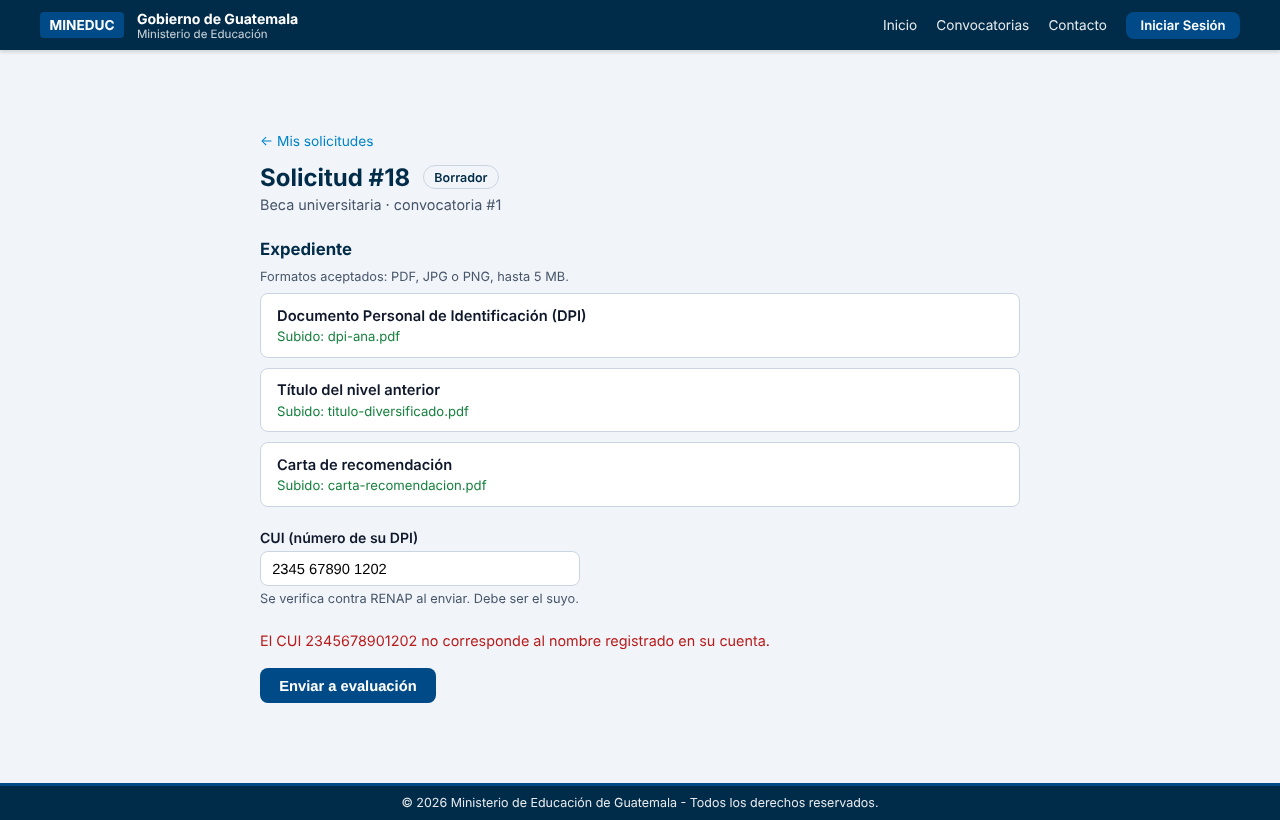
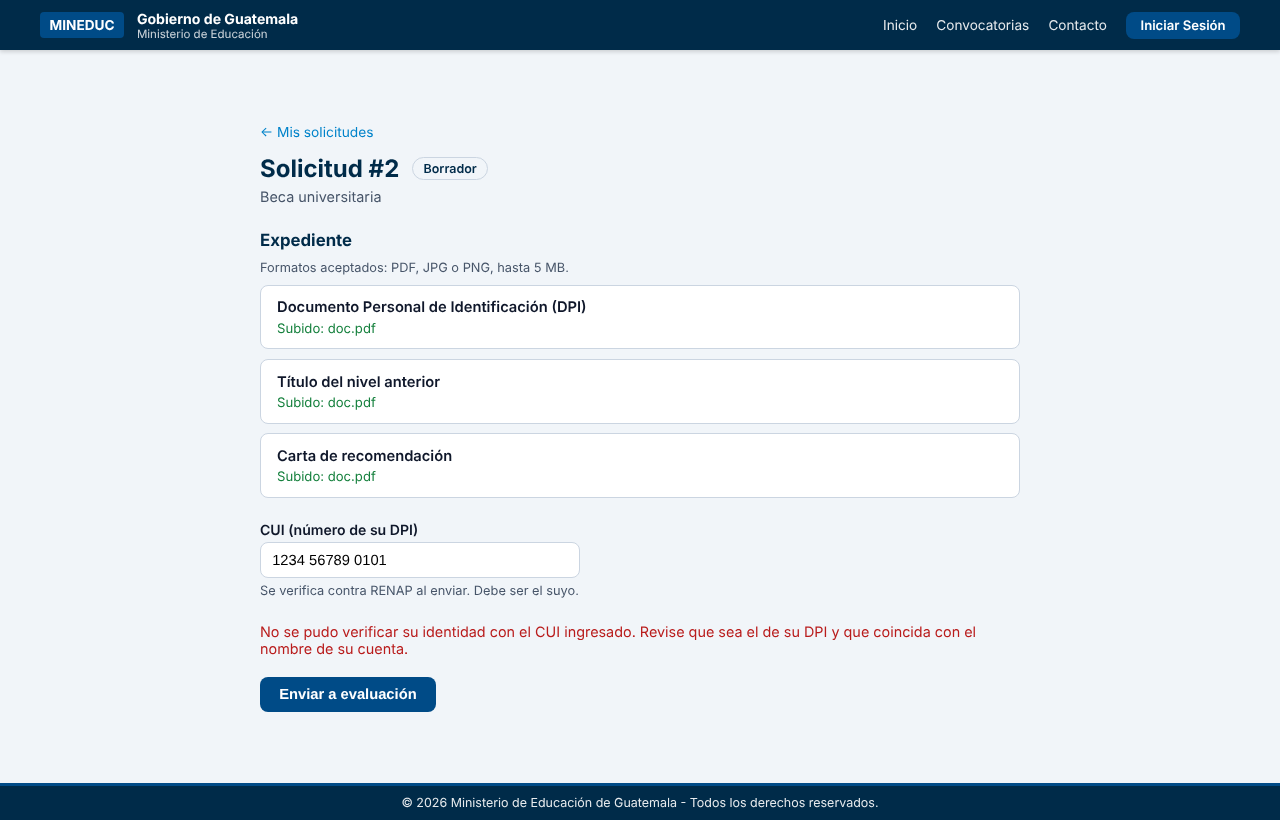
docs: manual de usuario, seccion del evaluador y mensaje unico de RENAP

Changed region(s): [[0.1875, 0.1524, 0.7812, 0.6098], [0.1875, 0.7622, 0.75, 0.8841], [0.1875, 0.6402, 0.4688, 0.7317]]

diff --git a/docs/manual-usuario.md b/docs/manual-usuario.md
@@ -5,9 +5,9 @@
 
 | | |
 |---|---|
-| **Dirigido a** | Estudiantes que solicitan una beca |
-| **Versión del documento** | 1.0 |
-| **Fecha** | 27/10/2026 |
+| **Dirigido a** | Estudiantes que solicitan una beca (secciones 1 a 11) y evaluadores del Ministerio (sección 12) |
+| **Versión del documento** | 1.1 |
+| **Fecha** | 29/10/2026 |
 
 Este manual explica cómo usar la plataforma desde el navegador. Para instalarla
 o configurarla, consulte el **Manual Técnico** (`docs/manual-tecnico.md`).
@@ -30,7 +30,8 @@ contra su base de datos, no maquetas.
 9. [Mis solicitudes](#9-mis-solicitudes)
 10. [Recuperar la contraseña](#10-recuperar-la-contraseña)
 11. [Mensajes frecuentes y qué hacer](#11-mensajes-frecuentes-y-qué-hacer)
-12. [Alcance de esta versión](#12-alcance-de-esta-versión)
+12. [Para evaluadores: revisar y dictaminar](#12-para-evaluadores-revisar-y-dictaminar)
+13. [Alcance de esta versión](#13-alcance-de-esta-versión)
 
 ---
 
@@ -193,7 +194,12 @@ esté vacío.
    formato inválido o pertenece a otra persona, no se envía y la solicitud
    sigue en Borrador.
 
-   ![CUI que no corresponde al nombre de la cuenta](manual-usuario/img/09-cui-no-corresponde.png)
+   Si el CUI no existe o es de otra persona, el mensaje es el mismo en los dos
+   casos: *No se pudo verificar su identidad con el CUI ingresado.* Es a
+   propósito: si la plataforma dijera cuál de los dos pasó, cualquiera podría
+   averiguar qué CUI existen y a nombre de quién.
+
+   ![CUI que no se pudo verificar](manual-usuario/img/09-cui-no-corresponde.png)
 
 Si todo está bien, la solicitud pasa a **Enviada** y aparece la confirmación
 **Su solicitud fue enviada.**
@@ -270,8 +276,7 @@ administrador de la plataforma.
 | *El expediente está incompleto. Falta: …* | Le falta subir algún documento | Suba los que aparecen en rojo y vuelva a enviar |
 | *El archivo supera el límite de 5 MB.* | El archivo es muy grande | Reduzca su tamaño, por ejemplo escaneando a menor resolución |
 | *… el CUI debe tener exactamente 13 dígitos* | El CUI está incompleto o tiene caracteres de más | Escriba los 13 dígitos de su DPI |
-| *… CIUDADANO NO ENCONTRADO EN EL PADRON* | RENAP no tiene ese CUI | Revise que lo escribió bien |
-| *El CUI … no corresponde al nombre registrado en su cuenta.* | El CUI es de otra persona, o el nombre de su cuenta no coincide con el de su DPI | Revise el CUI. Si es el suyo, el nombre de su cuenta no coincide con el de RENAP |
+| *No se pudo verificar su identidad con el CUI ingresado. …* | El CUI no existe en RENAP, es de otra persona, o el nombre de su cuenta no coincide con el de su DPI. La plataforma no dice cuál, a propósito (sección 7) | Revise que escribió bien su CUI. Si es el suyo, el nombre de su cuenta no coincide con el de RENAP |
 | *El servicio de RENAP no está disponible: …* | El servicio de RENAP no respondió | Su solicitud no cambió. Intente de nuevo más tarde |
 | *Token inválido o expirado* | Su sesión venció (dura una hora) | Cierre sesión y vuelva a entrar |
 | *No tiene acceso a esta solicitud.* | Intentó abrir una solicitud que no es suya | Entre a **Mis solicitudes** y abra las suyas |
@@ -279,18 +284,117 @@ administrador de la plataforma.
 
 ---
 
-## 12. Alcance de esta versión
+## 12. Para evaluadores: revisar y dictaminar
+
+Esta sección es para el personal del Ministerio con rol de **evaluador**. Un
+evaluador solo ve y resuelve las solicitudes que el administrador le asignó.
+
+### 12.1 Su cuenta de evaluador
+
+El evaluador se registra igual que cualquier usuario (sección 2), con su correo
+institucional. El rol de evaluador **no se elige al registrarse**: lo asigna el
+administrador técnico del sistema. Hasta que se lo asignen, su cuenta funciona como la
+de un estudiante.
+
+Al iniciar sesión (sección 3), la pantalla de inicio muestra su rol y el enlace
+**Bandeja del evaluador**.
+
+![Inicio de sesión de un evaluador, con el enlace a su bandeja](manual-usuario/img/14-inicio-evaluador.png)
+
+### 12.2 La bandeja del evaluador
+
+Elija **Bandeja del evaluador**. Ahí aparecen, de la más antigua a la más
+reciente, todas las solicitudes que le asignaron, en cualquier estado.
+
+Si todavía no le asignaron ninguna, la bandeja lo indica:
+
+![Bandeja sin solicitudes asignadas](manual-usuario/img/15-bandeja-vacia.png)
+
+Cada solicitud aparece como una tarjeta con su número, su estado, la modalidad
+de beca y el número de identificación del estudiante. Los botones de cada
+tarjeta dependen del estado de la solicitud: la plataforma solo muestra las
+acciones que se pueden hacer en ese momento.
+
+| Estado de la solicitud | Botones que ve |
+|---|---|
+| **Enviada** | **Iniciar Evaluación** |
+| **En Evaluación** | **Aprobar** y **Rechazar** |
+| **Aprobada** o **Rechazada** | Ninguno: *Sin acciones pendientes* |
+
+<!-- PENDIENTE (Marco): cuando la bandeja muestre los documentos del expediente
+     (tarea 4 de Brayan), agregar aquí "12.3 Revisar el expediente", con captura
+     de la lista de documentos y de la descarga, y renumerar 12.3 y 12.4. -->
+
+### 12.3 Iniciar la evaluación
+
+Una solicitud recién asignada está en **Enviada**. Presione **Iniciar
+Evaluación** para tomarla.
+
+![Solicitud asignada, en estado Enviada](manual-usuario/img/16-bandeja-enviada.png)
+
+La solicitud pasa a **En Evaluación**, aparece la confirmación *Solicitud #…
+pasada a "En Evaluación"* y la tarjeta cambia a los botones del dictamen. El
+estudiante ve el nuevo estado en **Mis solicitudes**.
+
+![Solicitud en evaluación, con los botones del dictamen](manual-usuario/img/17-en-evaluacion.png)
+
+### 12.4 Dictaminar: aprobar o rechazar
+
+Cuando termine de revisar la solicitud, presione **Aprobar** o **Rechazar**.
+
+> **El dictamen es definitivo y se aplica con un solo clic.** La plataforma no
+> pide confirmación, y una solicitud **Aprobada** o **Rechazada** ya no se
+> puede cambiar (sección 8). Asegúrese de presionar el botón correcto.
+
+La plataforma confirma *Solicitud #… dictaminada como APROBADA* (o
+*RECHAZADA*) y la tarjeta queda sin acciones pendientes.
+
+![Solicitud aprobada](manual-usuario/img/18-aprobada.png)
+
+El estudiante ve la resolución en **Mis solicitudes**:
+
+![La resolución vista por el estudiante](manual-usuario/img/19-estudiante-aprobada.png)
+
+### 12.5 Qué puede y qué no puede hacer un evaluador
+
+- Solo ve las solicitudes que **le asignaron**. Si intenta abrir otra, la
+  plataforma responde *No tiene acceso a esta solicitud.*
+- Solo puede iniciar la evaluación de una solicitud **Enviada** y solo puede
+  dictaminar una que esté **En Evaluación**. La plataforma rechaza cualquier
+  otro orden.
+- No puede modificar el expediente del estudiante ni subir documentos.
+
+### 12.6 Mensajes para evaluadores
+
+| Mensaje | Qué pasó | Qué hacer |
+|---|---|---|
+| *No hay solicitudes asignadas para evaluar.* | Todavía no le asignaron ninguna | Espere a que el administrador le asigne una |
+| *Solo evaluadores y administradores tienen bandeja de revisión.* | Su cuenta no tiene el rol de evaluador | Pida al administrador que le asigne el rol |
+| *No está asignado como evaluador de esta solicitud.* | La solicitud no es de las suyas | Revise que trabaja con su cuenta, o pida la asignación |
+| *Token inválido o expirado* | Su sesión venció (dura una hora) | Cierre sesión y vuelva a entrar |
+
+<!-- PENDIENTE (Marco): cuando exista la pantalla de asignación (tarea 5 de
+     Brayan), agregar aquí "## 13. Para administradores: asignar evaluadores",
+     con capturas, y pasar "Alcance de esta versión" a la sección 14. -->
+
+---
+
+## 13. Alcance de esta versión
 
 **Lo que cubre este manual.** El recorrido completo del **estudiante**: crear la
 cuenta, ver convocatorias, iniciar una solicitud, armar el expediente, enviarlo
-con validación de identidad y consultar su estado.
+con validación de identidad y consultar su estado. Y el del **evaluador**: ver
+las solicitudes asignadas, iniciar la evaluación y dictaminar.
 
 **Lo que todavía no tiene pantallas**, y por eso no se describe aquí:
 
-- **Evaluadores:** bandeja de solicitudes asignadas, pasar a evaluación y
-  dictaminar. La lógica existe en el sistema; falta la interfaz.
-- **Administradores:** crear, publicar y cerrar convocatorias. La lógica existe;
-  falta la interfaz.
+- **Evaluadores:** la bandeja todavía no muestra los documentos del expediente,
+  ni permite escribir observaciones en el dictamen. La tarjeta identifica al
+  estudiante por su número, no por su nombre.
+- **Administradores:** asignar evaluadores a una solicitud y crear, publicar y
+  cerrar convocatorias. La lógica existe en el sistema y se usa por la API;
+  falta la interfaz. Por eso, en esta versión, la asignación de un evaluador la
+  hace el administrador técnico, no desde el navegador.
 - **Comités, evaluación con puntajes, cupos y reportes:** fuera del alcance de
   esta entrega.
 - **Recuperación de contraseña:** incompleta (sección 10).
